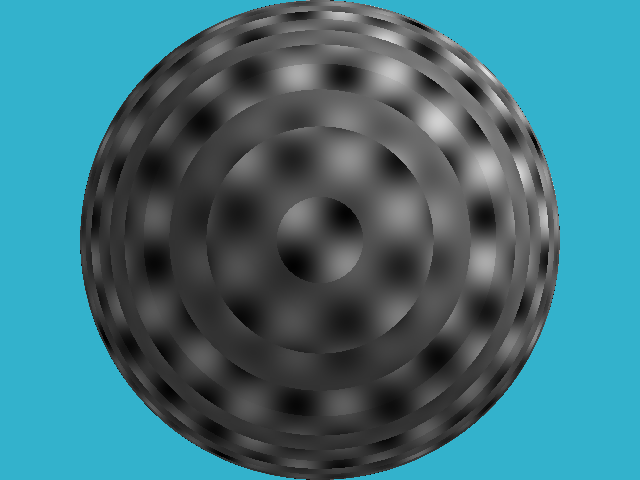
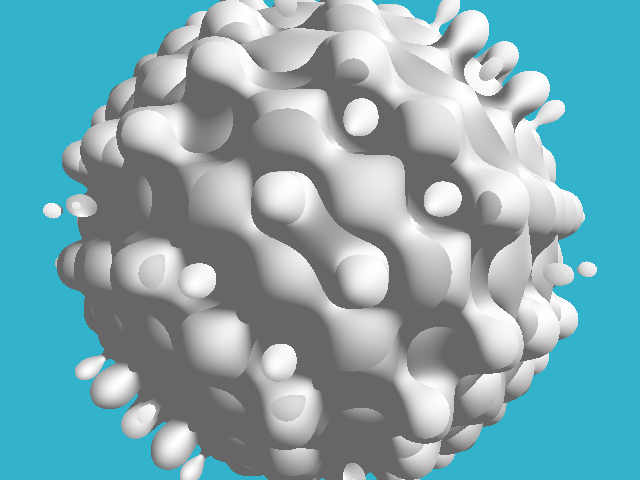
Step 4: Displacement Mapping

diff --git a/main.go b/main.go
@@ -16,7 +16,10 @@ func max(a, b float64) float64 {
 }
 
 func signedDistance(p r3.Vector) float64 {
-    return r3.Vector.Norm(p) - sphereRadius
+    //return r3.Vector.Norm(p) - sphereRadius
+    s := r3.Vector{p.X/sphereRadius, p.Y/sphereRadius, p.Z/sphereRadius}
+    displacement := math.Sin(16.*s.X)*math.Sin(16.*s.Y)*math.Sin(16.*s.Z)*noiseAmplitude
+    return r3.Vector.Norm(p) - (sphereRadius+displacement)
 }
 
 func sphereTrace(orig, dir r3.Vector, pos *r3.Vector) bool {
@@ -48,6 +51,7 @@ func multiplyColorIntensity(c color.RGBA, f float64) color.RGBA {
 }
 
 const sphereRadius = 1.5
+const noiseAmplitude = 0.2
 
 func main() {
     const width = 640.
@@ -75,8 +79,7 @@ func main() {
                 lightSrc := r3.Vector{10, 10, 10}
                 lightDir := r3.Vector.Normalize(r3.Vector.Sub(lightSrc, hit))
                 lightIntensity := max(0.4, r3.Vector.Dot(lightDir,distanceFieldNormal(hit)))
-                displacement := (math.Sin(16.*hit.X)*math.Sin(16.*hit.Y)*math.Sin(16.*hit.Z) + 1.) / 2.
-                img.Set(int(i), int(j), multiplyColorIntensity(whiteColor, lightIntensity*displacement))
+                img.Set(int(i), int(j), multiplyColorIntensity(whiteColor, lightIntensity))
             } else {
                 img.Set(int(i), int(j), backgroundColor)
             }
